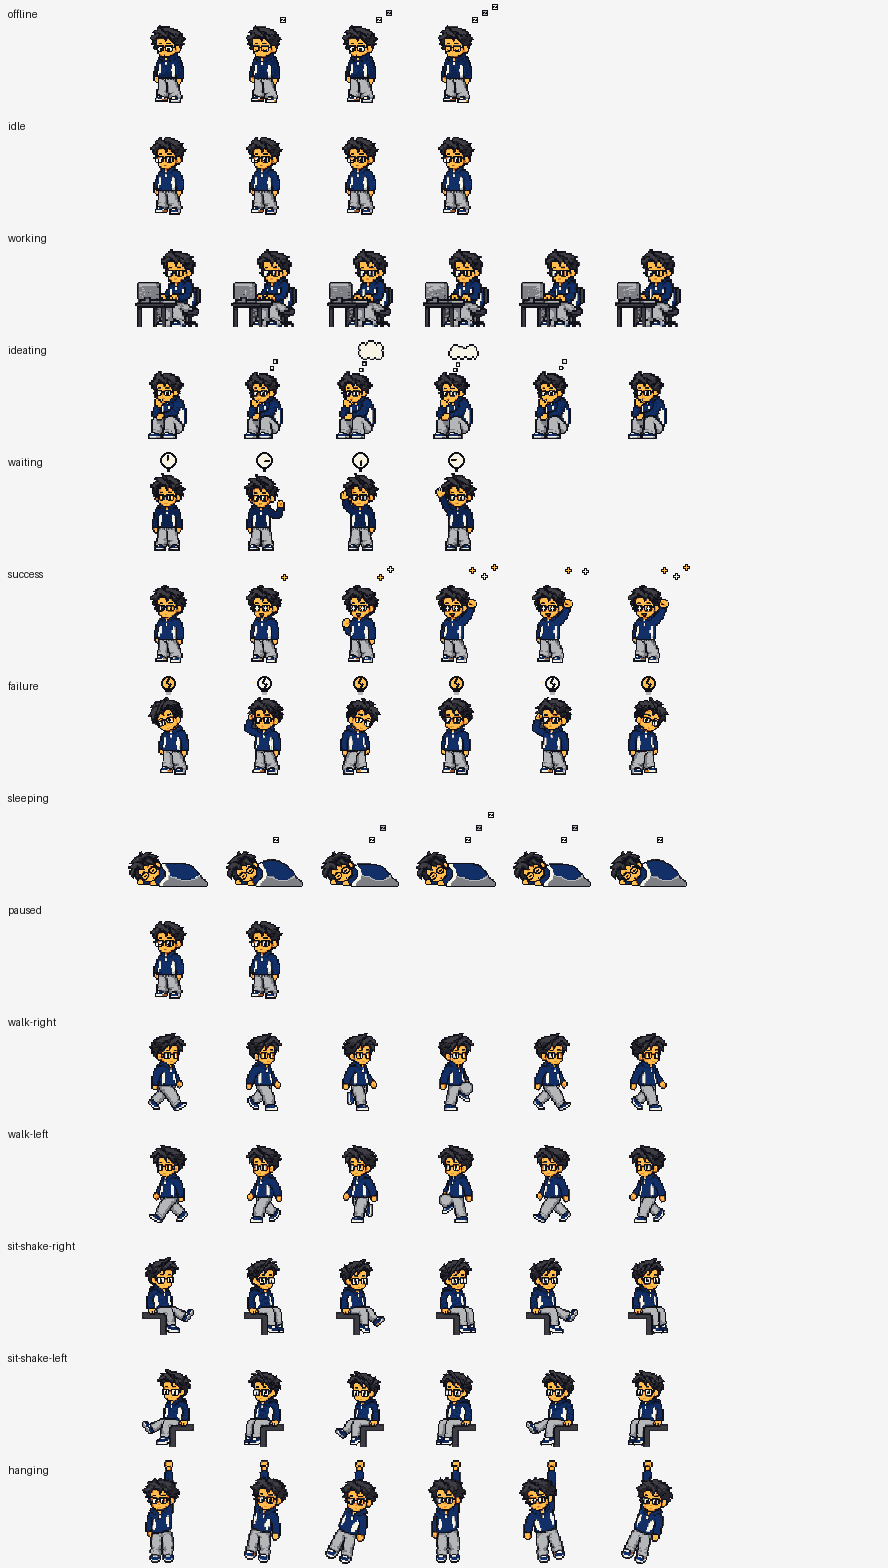
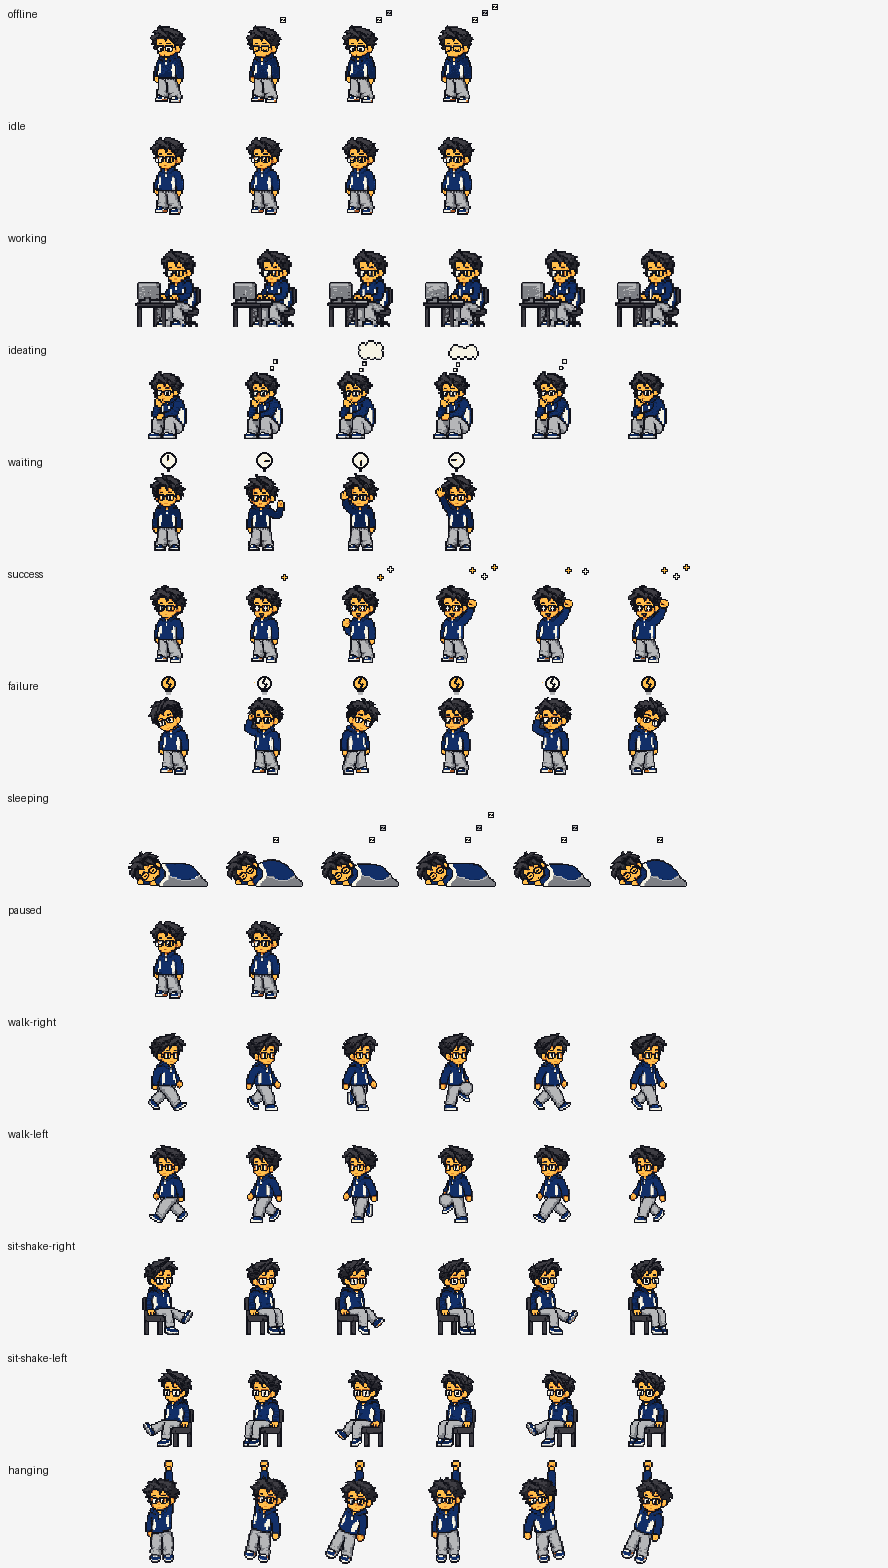
Replace sit-shake ledge with chair

diff --git a/DesktopMascot.md b/DesktopMascot.md
@@ -10,8 +10,8 @@
 | Owner | [Mr-Shine09](https://github.com/Mr-Shine09) |
 | Started | 2026-07-28 |
 | Last updated | 2026-07-29 |
-| Status | Portal summon, revision 3 cursor-hanging, ambient animation, event engine, and local transport are implemented and build-verified |
-| Current gate | Owner-verify the portal summon and physical cursor-hanging feel; then wire the tested local event path into the app |
+| Status | Portal summon, revision 4 chair sit-shake/cursor-hanging atlas, ambient animation, event engine, and local transport are implemented and build-verified |
+| Current gate | Owner-verify the chair sit-shake, portal summon, and physical cursor-hanging feel; then wire the tested local event path into the app |
 | Repository | [Mr-Shine09/desktop-mascot](https://github.com/Mr-Shine09/desktop-mascot) (private) |
 | Initial release | Local-only native macOS app, macOS 14+ |
 | Canonical source image | `/Users/oaksoekhant/Mr-Shine09/source-avatar-magenta.png` |
@@ -91,7 +91,7 @@ These questions do not block the foundation or prototype. They do block a 1.0 re
 - Transparent, non-activating floating window in a bounded strolling lane immediately above or beside the Dock.
 - Menu-bar controls: show/hide, pause animation, manual ideating state, unlock position, launch at login, diagnostics, quit.
 - States: `offline`, `idle`, `working`, `ideating`, `waiting`, `success`, `failure`, `sleeping`, `paused`.
-- Idle animation variants include directional strolling and directional Dock-corner sitting with one dangling leg shaking.
+- Idle animation variants include directional strolling and directional sitting on a small chair with one lower leg shaking.
 - Reliable Codex and Claude Code event adapters based on supported lifecycle hooks.
 - A documented capability boundary for ordinary ChatGPT app/browser activity; no unsupported scraping or fabricated fine-grained states.
 - Local-only event transport.
@@ -150,7 +150,7 @@ Remove garment texture, zipper detail below one pixel, belt detail, hand anatomy
 | Failure | Agent turn or integration failed | 6 | Confused/dizzy reaction with a broken light bulb above the head, then ambient state |
 | Sleeping | Inactive during 23:00–06:00 local time | 6 | Sleep under a blanket with a looping `Z` trail; wake immediately for activity |
 | Paused | User disabled automatic behavior | 2 | Still pose |
-| Sit-shake right/left | Ambient idle at a Dock corner | 6 each | Sit on a compact Dock-edge ledge and casually swing one dangling leg |
+| Sit-shake right/left | Ambient idle on a chair | 6 each | Sit on a small freestanding chair and casually swing one lower leg |
 | Hanging | Direct mascot drag | 6 | One raised hand stays attached to the cursor while the body swings beneath it; no cliff or ledge |
 
 Detached effects should be sparse and bounded above the character. The approved effect vocabulary is the ideating cloud, offline/sleeping `Z` trails, waiting clock, success stars/sparkles, and failure bulb. All reuse the frozen palette, stay inside the cell guard, and must remain readable at native size without obscuring the face.
@@ -368,7 +368,7 @@ Acceptance: all artifacts exist, custom skills validate, repository URL resolves
 4. Approve one native grid, palette, identity hierarchy, and baseline.
 5. Write animation frame and atlas specification.
 
-Completed on 2026-07-28: the owner selected a 40-point footprint, rejected every native tall treatment, and explicitly ordered the secondary chibi fallback. `mascot-base-chibi-40pt-at2x-80px-final.png` is frozen as the base. The owner approved the 13-row revision 2 atlas, including the requested status effects and directional corner-sit clips. On 2026-07-29 the owner's explicit hanging request authorized revision 3, which adds one dedicated cursor-hanging row and top grip anchor. The current geometry, row order, palette, timing, anchors, acceptance rules, and QA outputs live in `art/animation/ATLAS.md` and `art/animation/atlas-contract.json`.
+Completed on 2026-07-28: the owner selected a 40-point footprint, rejected every native tall treatment, and explicitly ordered the secondary chibi fallback. `mascot-base-chibi-40pt-at2x-80px-final.png` is frozen as the base. The owner approved the 13-row revision 2 atlas, including the requested status effects and directional corner-sit clips. On 2026-07-29 the owner's explicit hanging request authorized revision 3, which added one dedicated cursor-hanging row and top grip anchor; the later chair request authorized revision 4, which replaces the two sit-shake ledges without changing atlas geometry or timing. The current geometry, row order, palette, timing, anchors, acceptance rules, and QA outputs live in `art/animation/ATLAS.md` and `art/animation/atlas-contract.json`.
 
 Acceptance: owner selects one concept; chosen sprite is recognizable at 1x; palette and frame geometry are frozen for 0.1. Passed on 2026-07-28.
 
@@ -468,8 +468,8 @@ None of these may enter 0.1 without an explicit scope change in this ledger and 
 | Idle row | Four native frames preserve the base silhouette and change only lens interiors for a half/full blink | Passed deterministic, internal visual, and owner review on 2026-07-28 |
 | Working, ideating, waiting rows | Contract frame counts, shared baseline, frozen palette, light/dark contact sheet, silhouettes, and motion previews | Passed deterministic, internal visual, and owner review on 2026-07-28 |
 | Effect-revised offline, waiting, success, failure, sleeping rows | Contract frame counts, requested effects, shared baseline, frozen palette, silhouettes, and motion previews | Passed deterministic, internal visual, and owner review on 2026-07-28 |
-| Dock-corner sit-shake rows | Six frames each direction, stable seat/torso, one swinging leg, mirrored temporal order | Passed deterministic, internal visual, and owner review on 2026-07-28 |
-| Retina atlas assembly | Exact current grid, used/unused occupancy, palette, alpha, transparent RGB, and cell guards | Revision 3 `768x1568` candidate passes validator on 2026-07-29; owner drag QA pending |
+| Chair sit-shake rows | Six frames each direction, stable chair/torso, one swinging leg, mirrored temporal order | Revision 4 passes deterministic and internal native-size visual QA on 2026-07-29; owner review pending |
+| Retina atlas assembly | Exact current grid, used/unused occupancy, palette, alpha, transparent RGB, and cell guards | Revision 4 `768x1568` candidate passes validator on 2026-07-29; owner chair and drag QA pending |
 | Cursor-hanging row | Six frames, fixed top grip, frozen palette, binary alpha, no cliff/ledge, and cursor-attached drag geometry | Passed deterministic art validation, runtime pixel equality, drag geometry test, and Debug build on 2026-07-29; physical feel pending |
 | Native app scaffold | Generated Xcode project, modular package, embedded atlas resources, static nearest-neighbor render, and startup/reopen smoke tests | Passed initial scaffold on 2026-07-28; fresh Debug relaunch restored a visible `96x112` window on 2026-07-29 |
 | Window geometry | Automated fixtures plus manual multi-display matrix | Ten tests pass, including bottom/left/right/clamp, visibility, non-activating interaction, click routing, and drag begin/end routing; remaining display matrix pending |
@@ -511,7 +511,7 @@ None of these may enter 0.1 without an explicit scope change in this ledger and 
 | `MascotCore` state vocabulary is unused by the running app | Medium | `AmbientAnimationController` drives animation with raw atlas row strings; `MascotState`/`AmbientAnimation` are exercised only by tests. The reducer must become the single typed source of visible state instead of growing beside the string-keyed controller | Still open, and now larger: `MascotStateReducer` emits typed `MascotVisibleState` but nothing consumes it. Wiring was deliberately deferred because with no transport the reducer would report `offline` forever and would regress the owner-approved ambient roaming. Close this together with #7 |
 | The default socket path may not fit `sun_path` for every user | Medium | `AF_UNIX` allows 103 usable path bytes. The real path measured 86 bytes for an 11-character user name on 2026-07-29, leaving roughly 17 bytes of headroom, so a much longer home directory path would fail. The failure is fail-closed and explicit (`socketPathTooLong`), not a truncated bind, but the bridge would be unavailable | Open; found 2026-07-29. If it ever bites, shorten the directory or socket name rather than truncating the path |
 | The helper is not installed anywhere a hook can reach | Medium | `dockpet-event` builds as a package executable but is not bundled into `Dock Pet.app` and has no install flow, so no provider hook can invoke it yet. Bundling requires a `project.yml` change plus regeneration and belongs with the adapter work | Open; deliberate scope boundary for issues #8 and #9 |
-| Atlas revision is tracked only in prose | Low | `atlas-contract.json` carries `schema_version` but no revision field, so no tool can assert which revision is loaded. Geometry itself validates and matches documented revision 3 | Open; low impact while one contract ships |
+| Atlas revision is tracked only in prose | Low | `atlas-contract.json` carries `schema_version` but no revision field, so no tool can assert which revision is loaded. Geometry itself validates and matches documented revision 4 | Open; low impact while one contract ships |
 
 ## Decision log
 
@@ -568,6 +568,7 @@ None of these may enter 0.1 without an explicit scope change in this ledger and 
 - Repair only the failing success and failure scopes: hold the first fist-pump peak through the last three success frames, and remove detached generated failure symbols through a stricter connected-component threshold.
 - Supersede the earlier ban on detached sleep text with the owner's explicit revision: add looping `Z` trails to offline and sleeping, a clock to waiting, stars/sparkles to success, and a cracked bulb to failure.
 - Interpret the requested two Dock-corner leg-shake animations as right- and left-facing ambient idle clips. Generate the right-facing source and derive the left row by per-frame mirroring without reversing time.
+- Supersede the Dock-corner ledge art with atlas revision 4: both sit-shake rows use one small freestanding chair with a visible backrest, seat, and two grounded legs. Preserve the existing seated identity and leg-swing cadence, and continue deriving the left row by per-frame mirroring without reversing time.
 - Treat the owner's “Ok good. Now let's continue” after reviewing all revision 2 previews as final approval. Freeze the 13-row `768x1456` atlas as the app-integration contract.
 - Use XcodeGen for a reproducible SwiftUI app shell backed by local `MascotCore`, `MascotAnimation`, and `MascotWindow` Swift package products.
 - Keep the first native checkpoint static: prove atlas decoding, nearest-neighbor frame extraction, transparent non-activating panel behavior, Dock geometry, and menu-bar recovery controls before adding timers or lifecycle signals.

diff --git a/art/animation/ATLAS.md b/art/animation/ATLAS.md
@@ -1,6 +1,6 @@
 # Desktop Mascot animation atlas contract
 
-Status: revision 3 adds the owner-requested cursor-hanging drag row on 2026-07-29. This is the app-integration contract.
+Status: revision 4 replaces the sit-shake ledges with owner-requested freestanding chairs on 2026-07-29. Revision 3 added the cursor-hanging drag row. This is the app-integration contract.
 
 The machine-readable source of truth is [`atlas-contract.json`](atlas-contract.json). If this document and the JSON disagree, stop and reconcile them before producing or loading art.
 
@@ -39,8 +39,8 @@ Unused cells after a row's final frame are fully transparent with zero RGB. Dura
 | 8 | `paused` | 2 | intro-hold | `140, hold` | Settle into a still neutral pose and stop the frame timer on the last frame. |
 | 9 | `walk-right` | 6 | loop | `140, 120, 140, 120, 140, 120` | Right-facing contact, down, passing, up cadence with alternating feet and no floor effects. |
 | 10 | `walk-left` | 6 | loop | `140, 120, 140, 120, 140, 120` | Left-facing equivalent. A mirror is allowed only if glasses, hair, clothing, light direction, and temporal frame order remain correct. |
-| 11 | `sit-shake-right` | 6 | loop | `220, 180, 220, 180, 220, 360` | Ambient right-facing corner pose: sit on a compact Dock-edge ledge and casually swing one dangling lower leg while the torso and ledge stay stable. |
-| 12 | `sit-shake-left` | 6 | loop | `220, 180, 220, 180, 220, 360` | Mirrored left-facing corner pose with temporal order preserved. |
+| 11 | `sit-shake-right` | 6 | loop | `220, 180, 220, 180, 220, 360` | Ambient right-facing chair pose: sit on a small freestanding chair and casually swing one lower leg while the torso and chair stay stable. |
+| 12 | `sit-shake-left` | 6 | loop | `220, 180, 220, 180, 220, 360` | Mirrored left-facing chair pose with temporal order preserved. |
 | 13 | `hanging` | 6 | loop | `160, 160, 220, 160, 160, 220` | One raised hand grips the cursor anchor while the body, free arm, and legs swing left through center to right; no ledge, rope, cursor art, or ground contact. |
 
 `hold` is not a millisecond value: the controller displays that frame until the visible state changes. `intro-hold` and `once-hold` play frames `0...n-1` exactly once; neither restarts while the state remains unchanged.
@@ -54,7 +54,7 @@ All frames use only transparency plus the frozen 12-color subject palette:
 - Alpha is binary: only `0` or `255`.
 - Fully transparent pixels have RGB `(0, 0, 0)`.
 - No antialiasing, semitransparent fringe, chroma spill, shadow, glow, smear, or single-pixel noise.
-- Props and effects reuse the frozen palette. The computer, blanket, cloud, `Z` trail, clock, stars, bulb, and Dock-edge ledge do not introduce new colors.
+- Props and effects reuse the frozen palette. The computer, blanket, cloud, `Z` trail, clock, stars, bulb, and freestanding chair do not introduce new colors.
 - The identity anchors remain readable in every applicable frame: asymmetric dark hair, separate square glasses/lenses, navy torso with white side panels, gray trousers, and navy shoes.
 
 Intentional detached effects are limited to the owner-requested offline/sleeping `Z` trails, waiting clock, success stars/sparkles, failure bulb, and the existing ideating cloud. They must stay inside the guard, remain legible at native size, and never overlap the face.
@@ -71,7 +71,7 @@ Each frame must pass in isolation and in motion:
 6. Walk loops alternate feet, preserve temporal order, avoid foot sliding during contact, and loop without a teleport.
 7. Working, ideating, waiting, success, failure, sleeping, and offline remain visually distinct; only the approved `Z` trails may use letterforms.
 8. First frames of `idle`, `sleeping`, `waiting`, and `paused` are acceptable static Reduced Motion substitutions. Reduced Motion never scales or rapidly flashes the panel.
-9. `sit-shake-right` and `sit-shake-left` keep the seat, hip, torso, head, and supporting leg stable; only the dangling lower leg swings.
+9. `sit-shake-right` and `sit-shake-left` keep the chair back, seat, legs, hip, torso, head, and supporting leg stable; only the raised lower leg swings.
 10. `hanging` keeps an opaque hand pixel fixed at `(48, 4)` while the body swings beneath it; neither foot touches the ground and no cliff, ledge, rope, or cursor is drawn.
 
 Repair the smallest failing scope: one frame, then one row, and only then a broader redraw. Identity drift is a blocker even if automated checks pass.
@@ -95,7 +95,8 @@ The dedicated `@1x` asset remains an explicit experiment. It must be authored an
 2. Produce and review `idle`, `walk-right`, and `walk-left` first. Directional gait and identity must pass before props obscure the body.
 3. Produce `working`, `ideating`, and `waiting`.
 4. Produce `success`, `failure`, `sleeping`, `offline`, and `paused`.
-5. Apply the owner-directed effect revision and add the two corner-sit leg-shake ambient clips.
+5. Apply the owner-directed effect revision and add the two directional sit-shake ambient clips.
 6. Add the revision 3 cursor-hanging row with its separate top grip anchor.
-7. Assemble the atlas deterministically, run `tools/validate_animation_atlas.py`, render contact sheets and previews, and repair only failing rows.
-8. Obtain owner review before closing issue #3 merely because the atlas is structurally valid.
+7. Apply revision 4 by replacing the sit-shake ledge with one stable freestanding chair, then derive the left row by mirroring without reversing time.
+8. Assemble the atlas deterministically, run `tools/validate_animation_atlas.py`, render contact sheets and previews, and repair only failing rows.
+9. Obtain owner review before closing issue #3 merely because the atlas is structurally valid.

diff --git a/art/animation/README.md b/art/animation/README.md
@@ -1,6 +1,6 @@
 # Animation production status
 
-The revision 3 atlas contract is defined in `ATLAS.md` and `atlas-contract.json`.
+The revision 4 atlas contract is defined in `ATLAS.md` and `atlas-contract.json`.
 
 ## Approved rows
 
@@ -13,7 +13,7 @@ The revision 3 atlas contract is defined in `ATLAS.md` and `atlas-contract.json`
 
 These six rows passed deterministic checks, internal visual QA, and owner review on 2026-07-28.
 
-## Revision 3 candidate
+## Revision 4 candidate
 
 - `frames/offline/` — four bowed-pose frames with a rising/disappearing `Z` trail.
 - `frames/sleeping/` — six blanket-breathing frames with a rising/fading `Z` trail.
@@ -21,13 +21,13 @@ These six rows passed deterministic checks, internal visual QA, and owner review
 - `frames/success/` — the fist-pump reaction with bounded stars and sparkles above the head.
 - `frames/failure/` — the confused/dizzy reaction with a cracked light bulb above the head.
 - `frames/paused/` — two deterministic approved-idle frame reuses ending in a static hold.
-- `frames/sit-shake-right/` and `frames/sit-shake-left/` — two six-frame directional Dock-corner ambient clips with one dangling leg swinging.
+- `frames/sit-shake-right/` and `frames/sit-shake-left/` — two six-frame directional chair-idle clips with one raised lower leg swinging; the chair back, seat, and two legs stay fixed.
 - `frames/hanging/` — six cursor-hanging frames with a fixed raised-hand grip and a left/center/right pendulum swing, with no cliff or ledge.
-- `mascot-atlas@2x.png` — complete structurally validated `768x1568` revision 3 candidate atlas.
+- `mascot-atlas@2x.png` — complete structurally validated `768x1568` revision 4 candidate atlas.
 - `qa/contact-sheet-backing-1x-{light,dark}.png` and `qa/contact-sheet-inspection-8x-{light,dark}.png` — full contract review sheets.
 - `qa/silhouette-sheet-candidate.png` and `qa/previews/` — full silhouette and contract-timed motion review.
 
-The requested effects, two corner-sit clips, and expanded atlas passed deterministic validation, internal native-size visual QA, and owner review on 2026-07-28.
+The requested effects, expanded atlas, and original corner-sit clips passed deterministic validation, internal native-size visual QA, and owner review on 2026-07-28. Revision 4 replaces only the sit-shake ledge concept with a small chair at the owner's request; automated and internal visual QA pass, with owner review of the final chair pixels pending.
 
 Reproduction order for revised reaction rows is normalize body frames, apply any body-pose repair, then run `tools/author_status_effects.py`. The effect authoring step is idempotent and preserves every body pixel below the reserved upper effect area.
 
@@ -35,7 +35,7 @@ Reproduction order for revised reaction rows is normalize body frames, apply any
 
 Two generated idle rows and one generated single-blink repair were rejected because they changed the approved identity; their images were not admitted to the project. With owner authorization, the production idle row was authored directly at native resolution. Frames 0 and 3 preserve every frozen-base pixel; frames 1 and 2 change only the lens interiors.
 
-Revision 2 is frozen for app integration. Do not change row order, timing, geometry, or pixels without a recorded revision 3 decision.
+Revision 4 is the current app-integration candidate. Do not change row order, timing, geometry, or pixels without a recorded revision decision.
 
 ## Verification
 

diff --git a/art/animation/prompts/sit-shake-right-row.md b/art/animation/prompts/sit-shake-right-row.md
@@ -1,7 +1,7 @@
 # Sit-shake-right source prompt
 
-Built-in image generation, using `art/production/mascot-base-chibi-40pt-at2x-80px-final.png` as the binding identity reference:
+Built-in image editing, using the previously approved six-frame strip as the edit target and identity/motion reference:
 
-> Create one horizontal six-frame native pixel-art animation strip of the exact referenced mascot sitting at the right-facing corner edge of a compact macOS Dock-like ledge and casually shaking one dangling leg. Preserve the character's asymmetric hair, separate square glasses, navy-and-white top, gray trousers, navy shoes, proportions, palette, and shared ground line. Keep the head, torso, seated hip, supporting leg, and compact right-angle ledge stable while the other lower leg swings forward, center, back, center, forward, center. Use a perfectly flat `#00FF00` chroma background with no dividers, icons, text, shadows, blur, or detached effects.
+> Replace the compact dark Dock-edge ledge beneath the seated mascot in every frame with a clearly readable small freestanding chair. Use a tiny dark charcoal pixel chair with a short backrest visible behind the torso, a horizontal seat under the hip, and two simple grounded legs. Keep the chair identical and stationary across all six frames. Preserve the mascot's identity, head, hair, separate square glasses, face, navy-and-white top, gray trousers, shoes, proportions, seated hip, supporting leg, hand position, native pixel style, six equal slots, shared baseline, and existing leg-swing cadence. Change only the old ledge prop into the chair. Preserve the flat `#00FF00` chroma background. Add no text, shadow, gradient, blur, divider, floor, Dock, corner, cliff, or detached effect.
 
 The left-facing row is a deterministic per-frame mirror with temporal order preserved.
